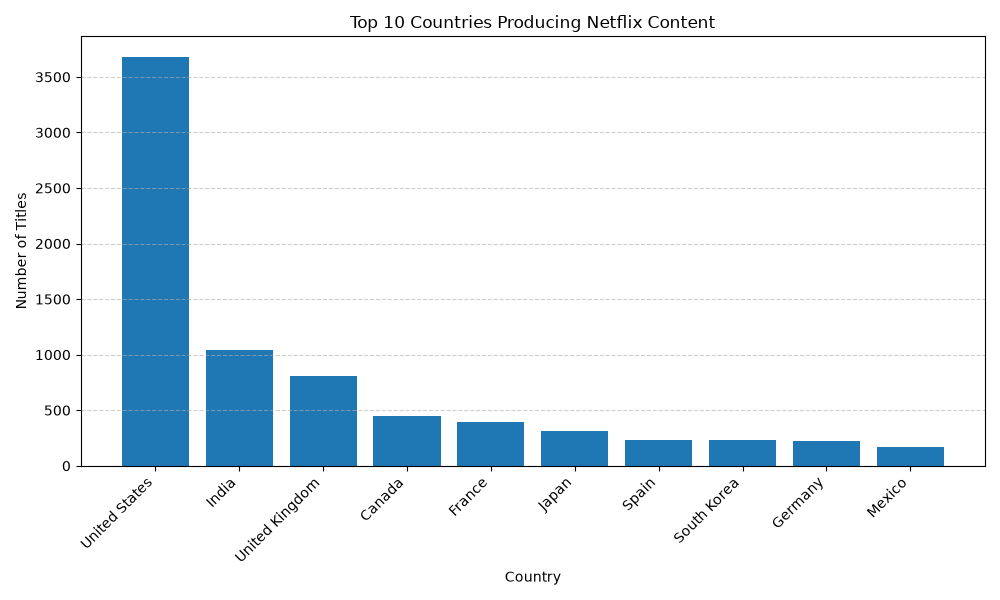
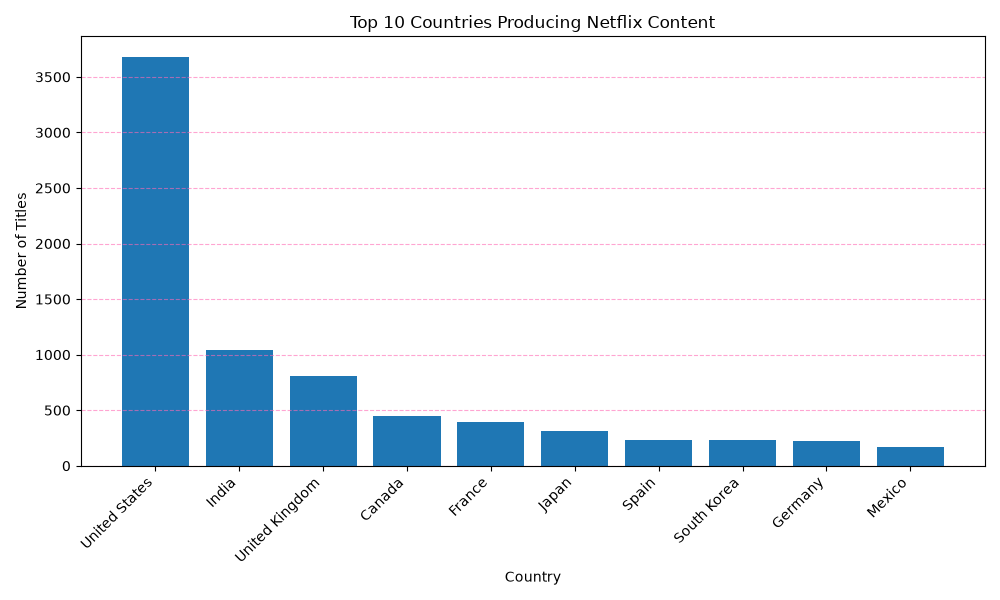
Completed top genres analysis and visuals

diff --git a/analysis.py b/analysis.py
@@ -85,11 +85,47 @@ def plot_top_countries(country_df):
     plt.ylabel("Number of Titles")
 
     plt.xticks(rotation = 45, ha = "right")
-    plt.grid(axis = "y", linestyle = "--", alpha = 0.6)
+    plt.grid(axis = "y", linestyle = "--", alpha = 0.6, color = 'hotpink')
 
     plt.tight_layout()
 
     plt.savefig("images/charts/top_10_countries.png")
+
+    plt.show()
+
+def analyze_genres(clean_df):
+    print("\n First 10 genres values: ")
+    print(clean_df["listed_in"].head(10))
+
+def transform_genres(clean_df):
+
+    genre_df = clean_df.copy()
+
+    genre_df["listed_in"] = genre_df["listed_in"].str.split(",")
+    genre_df = genre_df.explode("listed_in")
+    genre_df["listed_in"] = genre_df["listed_in"].str.strip()
+
+    return genre_df
+
+def plot_top_genres(genre_df):
+
+    genre_counts = genre_df["listed_in"].value_counts().head(10)
+
+    print("\n Top 10 genres: ")
+    print(genre_counts)
+
+    plt.figure(figsize = (10, 6))
+    plt.bar(genre_counts.index, genre_counts.values)
+    plt.title("Top 10 Genres On Netflix")
+    plt.xlabel("Genre")
+    plt.ylabel("Number of Titles")
+
+    plt.xticks(rotation = 45, ha = "right")
+    plt.grid(axis = "y", linestyle = "--", alpha = 0.6, color = 'red')
+
+    plt.tight_layout()
+
+    plt.savefig("images/charts/top_10_genres.png")
 
     plt.show()
 
@@ -104,6 +140,12 @@ def main():
     analyze_countries(clean_df)
     country_df = transform_countries(clean_df)
     plot_top_countries(country_df)
+
+    analyze_genres(clean_df)
+    transform_genres(clean_df)
+    genre_df = transform_genres(clean_df)
+    plot_top_genres(genre_df)
+
 
 if __name__ == "__main__":
     main()
